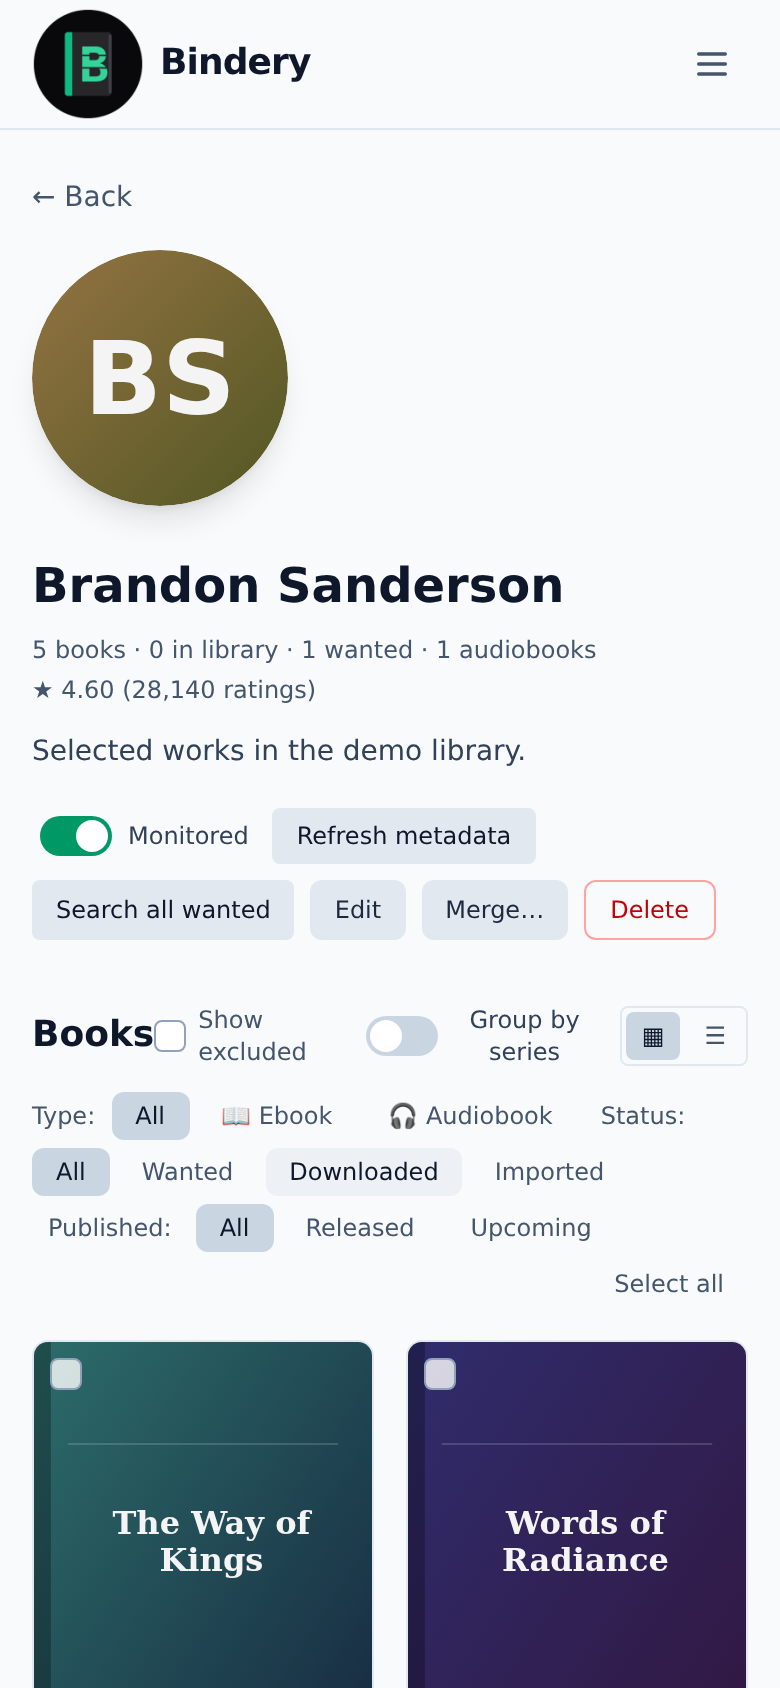
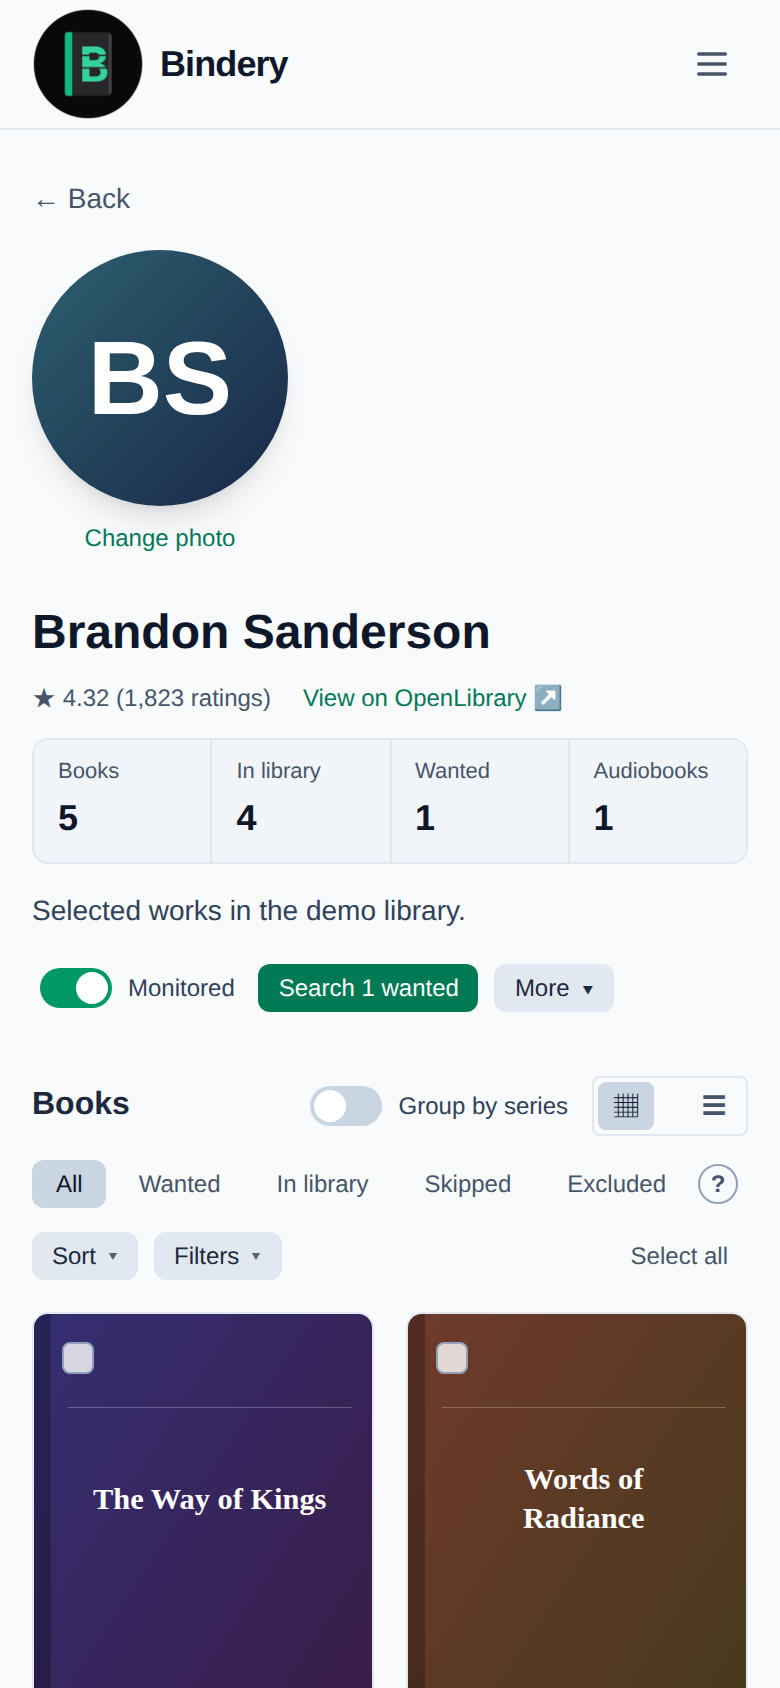
docs: regenerate the README screenshots and tour GIF (#3546)
Output of make screenshots. The images were last refreshed in June and
showed a navigation and layout the app no longer has.

diff --git a/changelog.d/3546-screenshots.md b/changelog.d/3546-screenshots.md
@@ -1,0 +1,2 @@
+### Changed
+- **README screenshots match the current interface** (#3546) — regenerated, along with the tour GIF, and `make screenshots` now rebuilds them from a demo library in a throwaway container.
